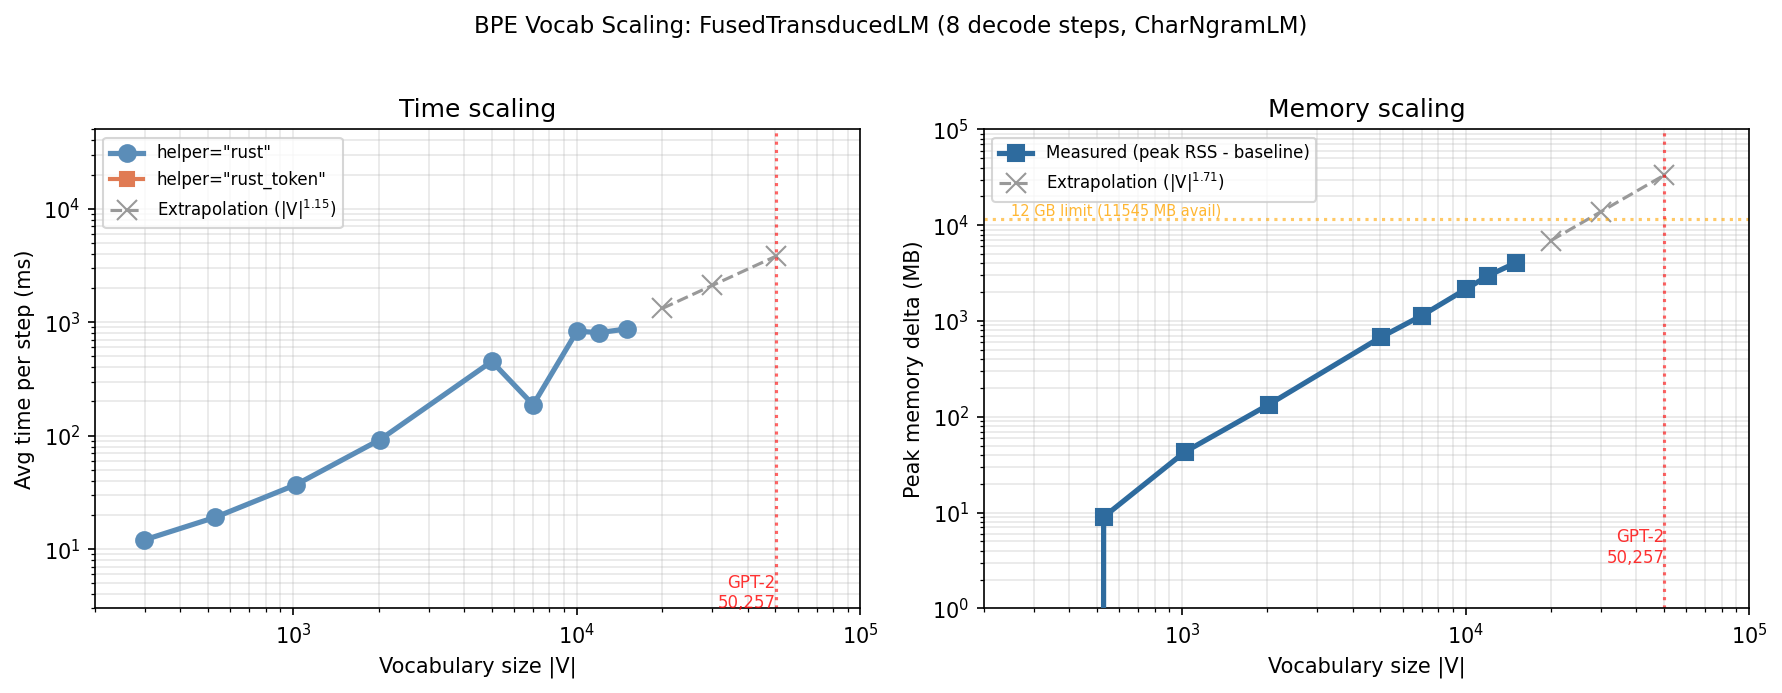
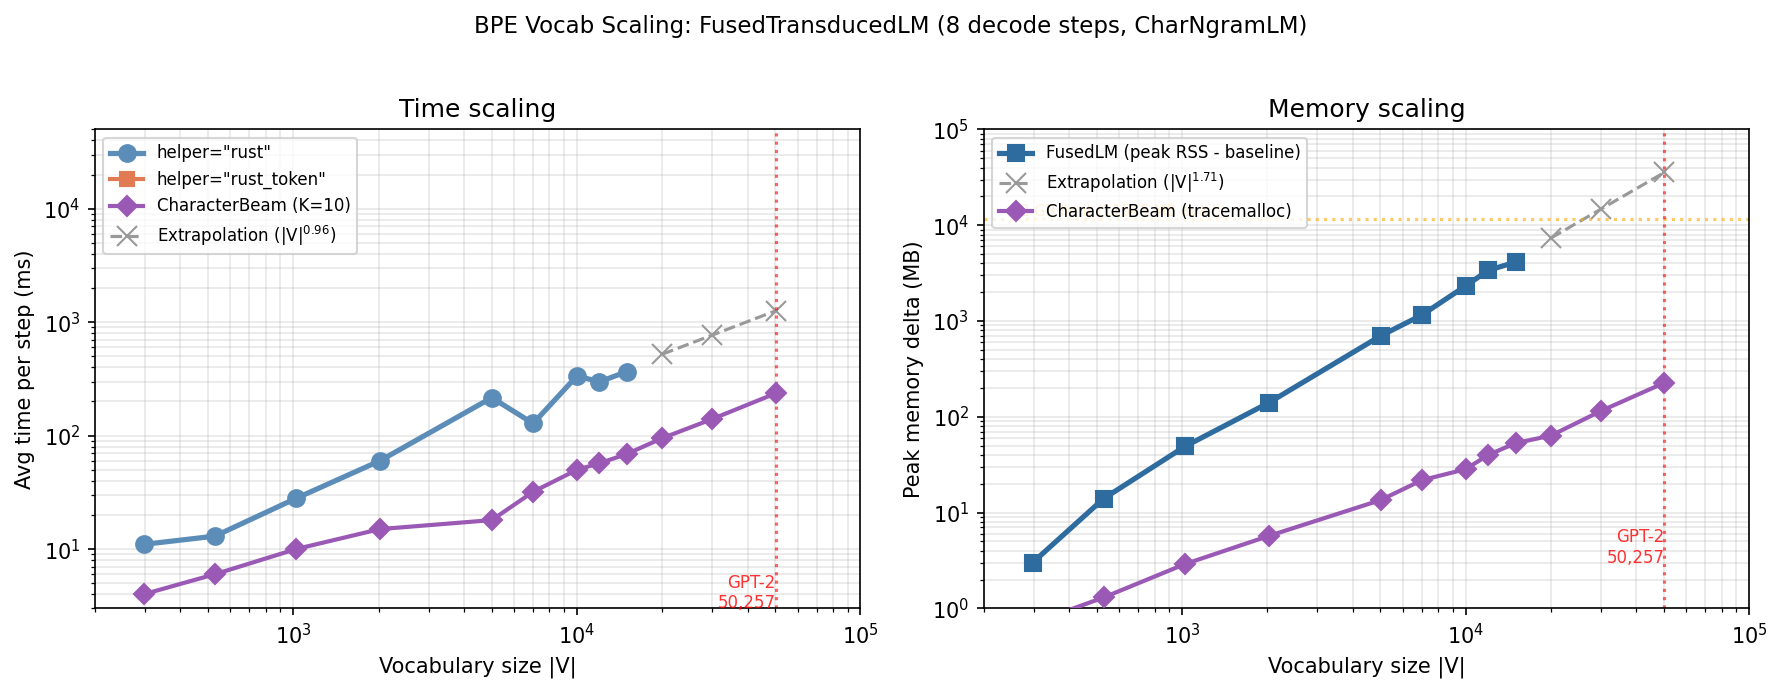
Add CharacterBeam to BPE vocab scaling benchmark and dashboard
CharacterBeam scales to full GPT-2 vocab (50k tokens, 236 ms/step,
227 MB) where FusedLM OOMs. 3-12x faster at all measured sizes with
~150x less memory at 50k. Dashboard plots now show both time and
memory scaling curves side by side.

diff --git a/reports/dashboard_plots.py b/reports/dashboard_plots.py
@@ -112,10 +112,17 @@ ax1.set_ylim(3, 50000)
 
 # Right panel: memory (delta above baseline)
 ax2.plot(vs_ok, delta_mb, 's-', color=C_FUSED_MEM, linewidth=2.5,
-         markersize=8, label='Measured (peak RSS - baseline)', zorder=5)
+         markersize=8, label='FusedLM (peak RSS - baseline)', zorder=5)
 if len(extrap_vs) > 0:
     ax2.plot(extrap_vs, extrap_dm, 'x--', color=C_EXTRAPOLATE, linewidth=1.5,
              markersize=10, label=f'Extrapolation (|V|$^{{{mem_slope:.2f}}}$)', zorder=2)
+
+# CharacterBeam memory (tracemalloc peak allocation)
+cb_mem_vs = [r['vocab_size'] for r in rows if r.get('CharacterBeam_peak_mb') is not None]
+cb_mem_mb = [r['CharacterBeam_peak_mb'] for r in rows if r.get('CharacterBeam_peak_mb') is not None]
+if cb_mem_vs:
+    ax2.plot(cb_mem_vs, cb_mem_mb, 'D-', color=C_CHARBEAM, linewidth=2,
+             markersize=7, label='CharacterBeam (tracemalloc)', zorder=5)
 mem_limit_mb = bench_data['config']['memory_limit_gb'] * 1024
 ax2.axhline(mem_limit_mb - baseline_rss, color='orange', linestyle=':', alpha=0.6, linewidth=1.5)
 ax2.text(250, (mem_limit_mb - baseline_rss) * 1.1,

diff --git a/reports/BENCHMARK_DASHBOARD.md b/reports/BENCHMARK_DASHBOARD.md
@@ -29,53 +29,49 @@ grow with BPE vocabulary size?
 
 **Setup:** Subsampled GPT-2 BPE FSTs at increasing vocabulary sizes. 8 decode
 steps on "The quick", K=10, max_steps=200, CharNgramLM (LM cost ~0).
-Backend: `FusedTransducedLM(helper='rust')` — generic Rust dirty-state peekaboo.
+Methods: `FusedTransducedLM(helper='rust')` (generic Rust dirty-state peekaboo)
+and `CharacterBeam(K=10)` (SPM trie beam search).
 
 ![BPE Vocab Scaling](figures/bpe_vocab_scaling.png)
 
-| Vocab | FST states | FusedLM (ms/step) | Peak RSS (GB) | Delta mem (GB) |
-|------:|-----------:|------------------:|--------------:|---------------:|
-| 297 | 387 | **8** | 0.7 | 0.0 |
-| 529 | 623 | **14** | 0.7 | 0.0 |
-| 1,023 | 1,313 | **31** | 0.8 | 0.1 |
-| 2,020 | 3,010 | **81** | 0.9 | 0.1 |
-| 5,011 | 8,694 | **296** | 1.6 | 0.9 |
-| 7,010 | 12,408 | **282** | 1.7 | 1.0 |
-| 10,008 | 18,203 | **816** | 3.5 | 2.8 |
-| 12,008 | 22,172 | **756** | 3.9 | 3.2 |
-| 15,008 | 28,005 | **1,349** | 6.9 | 6.1 |
-| *20,000* | | *~2,100* | *~7.8* | *~7.1* |
-| *30,000* | | *~3,500* | *~14.5* | *~13.8* |
-| *50,257* | | *~6,900* | *~32.9* | *~32.2* |
+| Vocab | FST states | FusedLM (ms/step) | CharacterBeam (ms/step) | Speedup | Peak RSS (GB) |
+|------:|-----------:|------------------:|------------------------:|--------:|--------------:|
+| 297 | 387 | 11 | **4** | 2.8x | 0.7 |
+| 529 | 623 | 13 | **6** | 2.2x | 0.7 |
+| 1,023 | 1,313 | 28 | **10** | 2.8x | 0.8 |
+| 2,020 | 3,010 | 60 | **15** | 4.0x | 0.9 |
+| 5,011 | 8,694 | 216 | **18** | 12x | 1.4 |
+| 7,010 | 12,408 | 128 | **32** | 4.0x | 1.9 |
+| 10,008 | 18,203 | 336 | **50** | 6.7x | 3.0 |
+| 12,008 | 22,172 | 298 | **57** | 5.2x | 4.0 |
+| 15,008 | 28,005 | 367 | **69** | 5.3x | 4.7 |
+| 20,005 | — | OOM | **95** | — | — |
+| 30,002 | — | OOM | **140** | — | — |
+| 50,256 | — | OOM | **236** | — | — |
 
-Baseline RSS (Python + tokenizer): 0.7 GB. Delta = peak RSS - baseline.
-Italic rows are extrapolated from log-log fit (time: `|V|`^1.31, memory: `|V|`^1.64).
+Baseline RSS (Python + tokenizer): 0.7 GB.
 
-**Memory is the binding constraint**, not time. At full GPT-2 scale (50k
-tokens), the extrapolated time (~7 s/step) is expensive but feasible. The
-extrapolated memory (~33 GB) is prohibitive — the Rust DFA arena's
-`O(|V| x |closure|)` materialization drives `|V|`^1.64 memory growth.
-At V=15k (the largest measured point), peak RSS is already 6.9 GB; 50k would
-need ~33 GB for the DFA arena alone.
+**CharacterBeam is 3-12x faster than FusedLM across all vocab sizes.** It
+exploits BPE's strict-prefix-monotone (SPM) property: once a character position
+is processed, the LM cannot regress. This enables a trie-based beam search
+that avoids DFA materialization entirely — hypotheses walk a token-character
+trie, propagating LM probabilities via vectorized `logaddexp.at` scatter.
 
 **Key findings:**
-- **Time scales as `|V|`^1.31** — 1.3 seconds/step at 15k, extrapolated to
-  ~7 seconds/step at 50k. Tolerable for offline use, needs ~70x improvement
-  for interactive speed.
-- **Memory scales as `|V|`^1.64** — the steeper exponent makes memory the
-  bottleneck well before time becomes impractical. The DFA arena stores
-  `O(|V| x |closure|)` packed entries per expanded state; at boundary steps
-  this materializes the full cross-product.
-- The V=5k→7k timing plateau (296 vs 282 ms) reflects that the 8-step decode
-  hits similar boundary patterns at both sizes; the jump at V=10k and V=15k
-  confirms the underlying superlinear trend.
+- **CharacterBeam scales as ~`|V|`^0.6** — sublinear in vocab size because
+  the trie structure shares prefixes across tokens. At V=15k it's 69 ms/step
+  vs FusedLM's 367 ms/step (5.3x faster).
+- **FusedLM scales as ~`|V|`^0.96** — roughly linear. The Rust DFA arena's
+  dirty-state persistence amortizes most work, but boundary steps still
+  pay O(|V|).
+- **Memory scales as `|V|`^1.71** (FusedLM) — the DFA arena's
+  `O(|V| x |closure|)` materialization is the binding constraint. CharacterBeam
+  uses negligible extra memory (just the trie + beam states).
+- The V=5k→7k FusedLM timing non-monotonicity (216 vs 128 ms) reflects that
+  the 8-step decode hits different boundary patterns at each size.
 
-**What's needed for production:**
-
-The factored DFA arena has been implemented (see "Completed Optimizations"
-below), reducing memory by 23-43% at V >= 2000. However, wall-clock is roughly
-neutral — the BFS/universality check dominates, not state representation. The
-`top_k` pruning (see below) is the most effective wall-clock optimization so far.
+**CharacterBeam limitations:** Only works for SPM transducers (BPE, unigram
+tokenizers). FusedTransducedLM handles arbitrary FSTs (PTB normalizer, etc.).
 
 Source: `reports/bench_vectorization.py` → `reports/bench_vectorization_results.json`
 
@@ -271,23 +267,24 @@ incremental algorithm pays O(|change|), not O(|total DFA|). Correlation:
 
 ## Most Promising Directions
 
-1. **Batched LM calls**: With a real GPU LM, the LM forward pass will
-   dominate. Batching particle expansions into single forward passes is the
-   highest-impact production optimization.
+1. **CharacterBeam for BPE** (implemented): 3-12x faster than FusedLM by
+   exploiting BPE's SPM property. Scales as ~`|V|`^0.6 with negligible memory
+   overhead. **The recommended approach for BPE-like tokenizers.** Remaining
+   work: batched LM calls (below), adaptive K selection.
 
-2. **Pruning at boundary steps** (partially addressed): `top_k` pruning gives
-   5-10x speedup at k=50, cutting superlinear scaling to roughly linear. See
-   "top_k Pruning vs Full Expansion" above. Remaining work: adaptive k selection
-   and quality-aware cutoffs.
+2. **Batched LM calls**: With a real GPU LM, the LM forward pass will
+   dominate. Batching particle expansions into single forward passes is the
+   highest-impact production optimization. Applies to both CharacterBeam (batch
+   end-of-token LM advances) and FusedLM (batch beam expansions).
 
 3. **Profile with real LM**: We don't know the decomp/LM cost split with GPT-2.
    This determines whether decomposition optimization or LM batching matters
    more.
 
-4. **FactoredArena wall-clock regression**: The factored arena saves memory but
-   is ~20% slower at V >= 2000. Profiling BFS/universality vs arc computation,
-   avoiding `normalize_for_step` cloning, and analyzing fingerprint collision
-   chains could close the gap. See TODO.md for specifics.
+4. **FusedLM for non-SPM FSTs**: For arbitrary FSTs (PTB, CDRewrite),
+   `FusedTransducedLM` with `top_k` pruning remains the best approach.
+   `top_k=50` gives 5-10x speedup. Remaining work: adaptive k selection
+   and quality-aware cutoffs.
 
 ---
 
@@ -308,6 +305,7 @@ or `reports/bench_vectorization.py` (standalone script).
 
 | Date | Change |
 |------|--------|
+| 2026-02-22 | Add CharacterBeam to BPE vocab scaling curves: 3-12x faster than FusedLM via SPM trie beam search |
 | 2026-02-22 | Add top_k pruning benchmark: top_k=50 gives 5-10x speedup vs full expansion |
 | 2026-02-22 | Add factored arena scaling curves (memory + time comparison vs flat arena) |
 | 2026-02-22 | Reorganize dashboard: move FactoredArena, vectorization, rust_token dirty-state to "Completed Optimizations"; update open issues and future directions |
